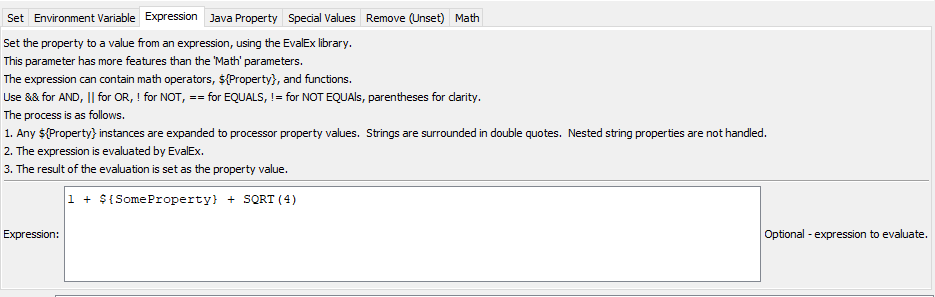
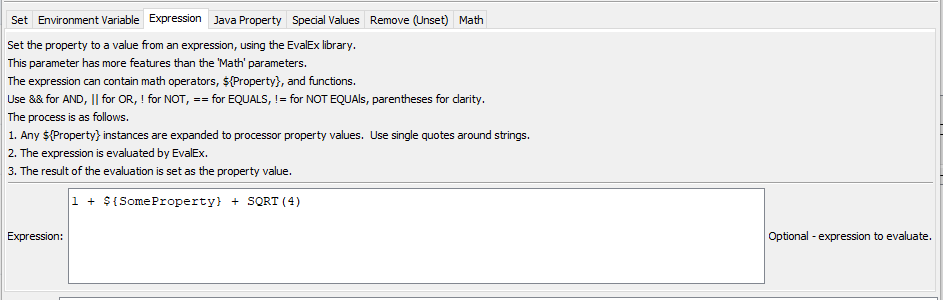
Update Expression syntax for strings for If and SetProperty, issue #185

Changed region(s): [[0.0, 0.0, 1.0, 1.0]]

diff --git a/mkdocs-project/docs/index.md b/mkdocs-project/docs/index.md
@@ -12,7 +12,7 @@ This documentation is generally referred to as the **"User Documentation"** in c
 *   [About the Open Water Foundation](#about-the-open-water-foundation)
 *   [License](#license)
 *   [Source Repository on GitHub](#source-repository-on-github)
-*   [Release Notes](appendix-release-notes/release-notes.md) - **this documentation has been updated for TSTool version 15.3.2**
+*   [Release Notes](appendix-release-notes/release-notes.md) - **this documentation has been updated for TSTool version 15.3.3**
 
 ----------------
 
